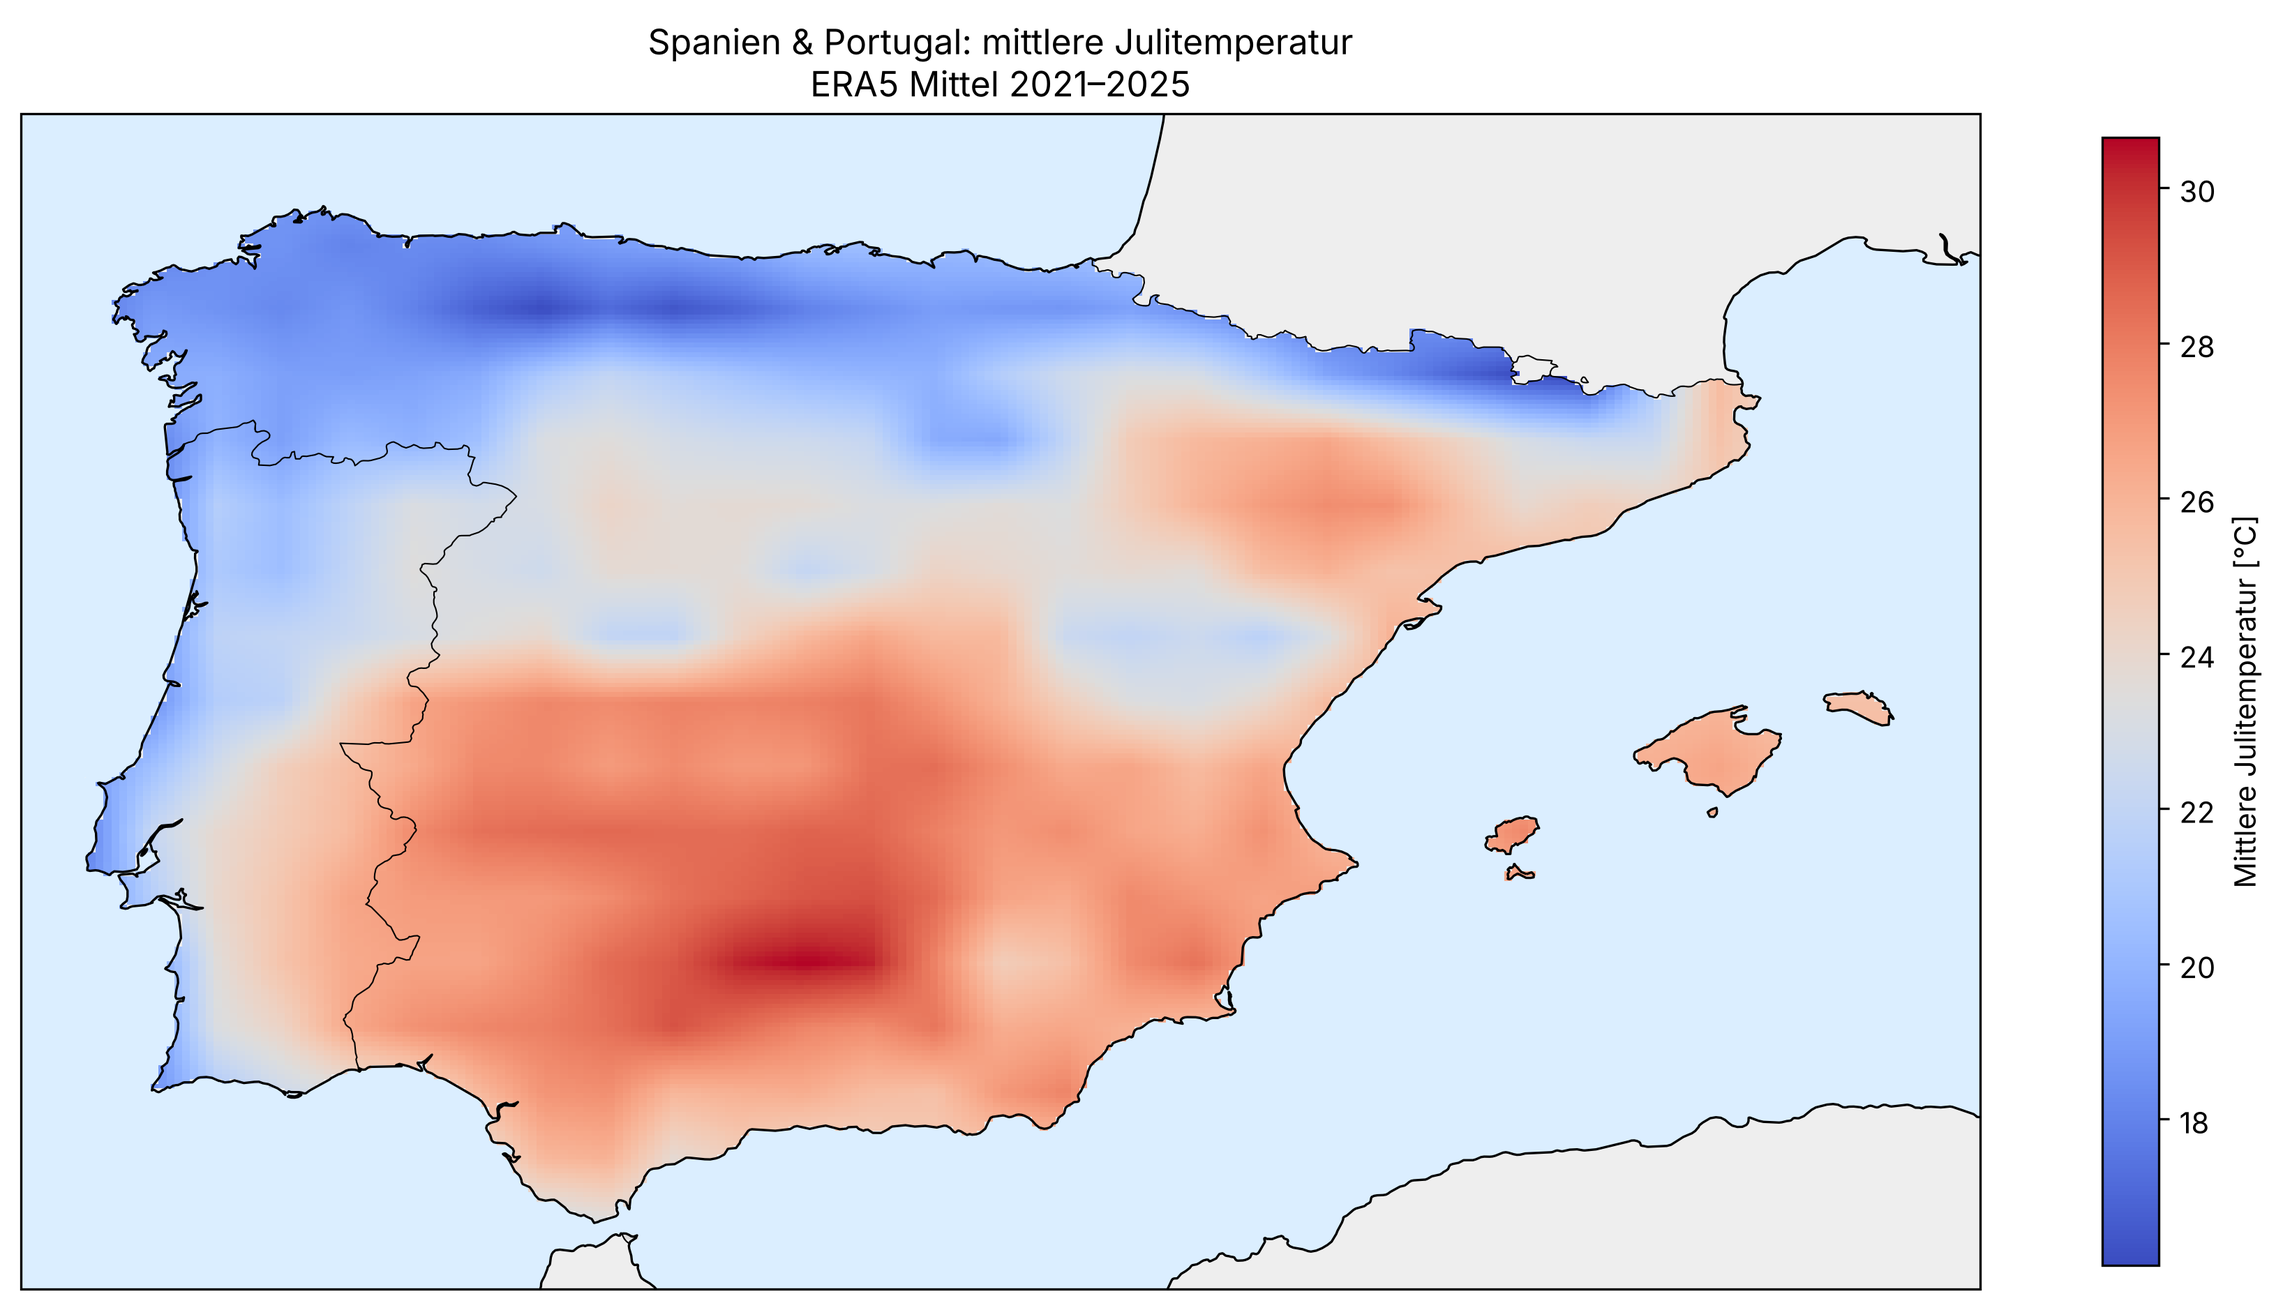
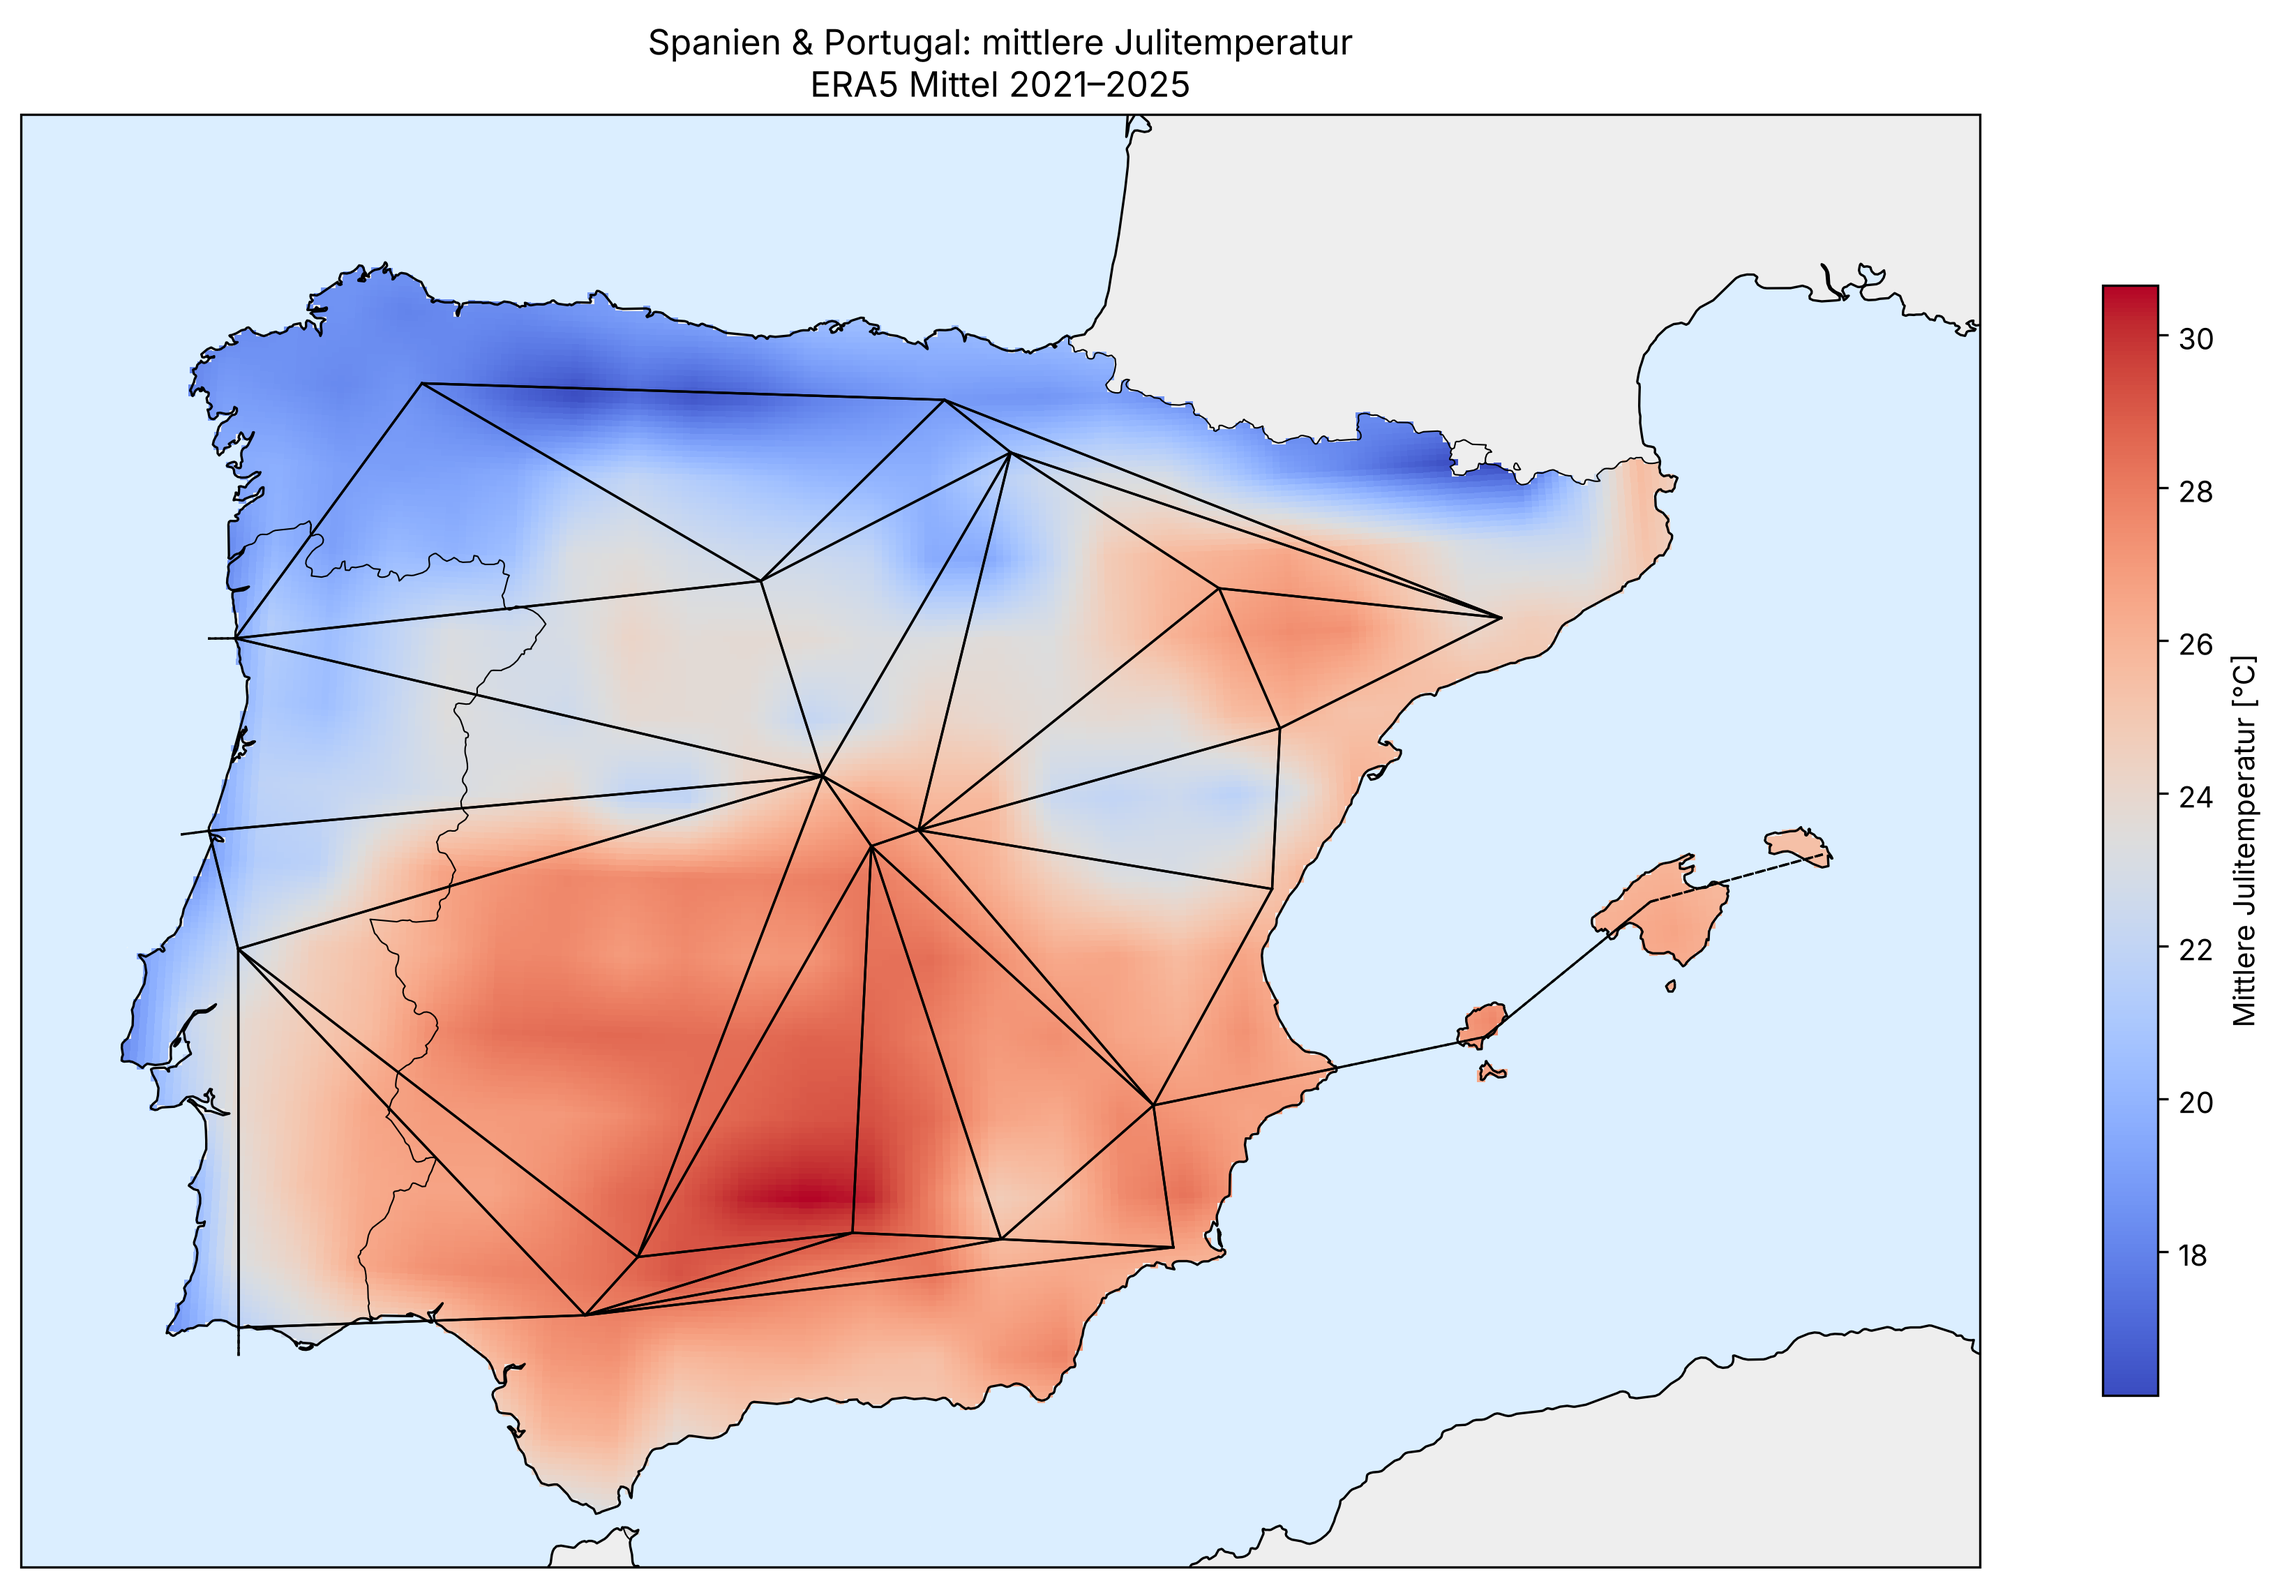
Use Lambert projection and overlay candidate pipeline network
Claude-Session: https://claude.ai/code/session_01Dh7L3AXCZphdqJGiPB8DoY

diff --git a/romans_playground/08_generate_temp_map.py b/romans_playground/08_generate_temp_map.py
@@ -12,12 +12,14 @@ ERA5 Reanalysis
 
 import xarray as xr
 import numpy as np
+import pandas as pd
 
 import matplotlib.pyplot as plt
 import cartopy.crs as ccrs
 import cartopy.feature as cfeature
 import cartopy.io.shapereader as shpreader
 import shapely
+from shapely import wkt
 from shapely.ops import unary_union
 
 
@@ -33,6 +35,8 @@ AREA = [44.5, -10, 35.5, 5]
 COUNTRIES = ["Spain", "Portugal"]
 
 INPUT_FILE = "era5_daily_july_europe.nc"
+NETWORK_FILE = "iberian_co2_network_data.xlsx"
+NETWORK_SHEET = "Pipeline candidates"
 FIGURE_FILE = "era5_july_heatmap_iberia.png"
 
 YEARS = "2021–2025"
@@ -95,7 +99,12 @@ temp_grid = temp_grid.where(inside)
 
 plt.figure(figsize=(12, 8))
 
-ax = plt.axes(projection=ccrs.PlateCarree())
+# Winkeltreue Projektion -> keine Ost-West-Streckung wie bei PlateCarree
+ax = plt.axes(projection=ccrs.LambertConformal(
+    central_longitude=-3.5,
+    central_latitude=40,
+    standard_parallels=(37, 43)
+))
 ax.set_extent([AREA[1], AREA[3], AREA[2], AREA[0]], crs=ccrs.PlateCarree())
 
 # Hintergrund unter, Linien über der Heatmap
@@ -114,6 +123,20 @@ heatmap = ax.pcolormesh(
 
 ax.coastlines(resolution="10m", linewidth=0.8, zorder=2)
 ax.add_feature(cfeature.BORDERS.with_scale("10m"), linewidth=0.5, zorder=2)
+
+# Kandidaten-Pipelinenetz (Onshore durchgezogen, Offshore gestrichelt)
+network = pd.read_excel(NETWORK_FILE, sheet_name=NETWORK_SHEET)
+
+for _, pipe in network.iterrows():
+    lon, lat = wkt.loads(pipe["geometry"]).xy
+    ax.plot(
+        lon, lat,
+        color="black",
+        linewidth=0.8,
+        linestyle="-" if pipe["Transport method"] == "Onshore" else "--",
+        transform=ccrs.PlateCarree(),
+        zorder=3
+    )
 
 cbar = plt.colorbar(heatmap, orientation="vertical", shrink=0.7)
 cbar.set_label("Mittlere Julitemperatur [°C]")
